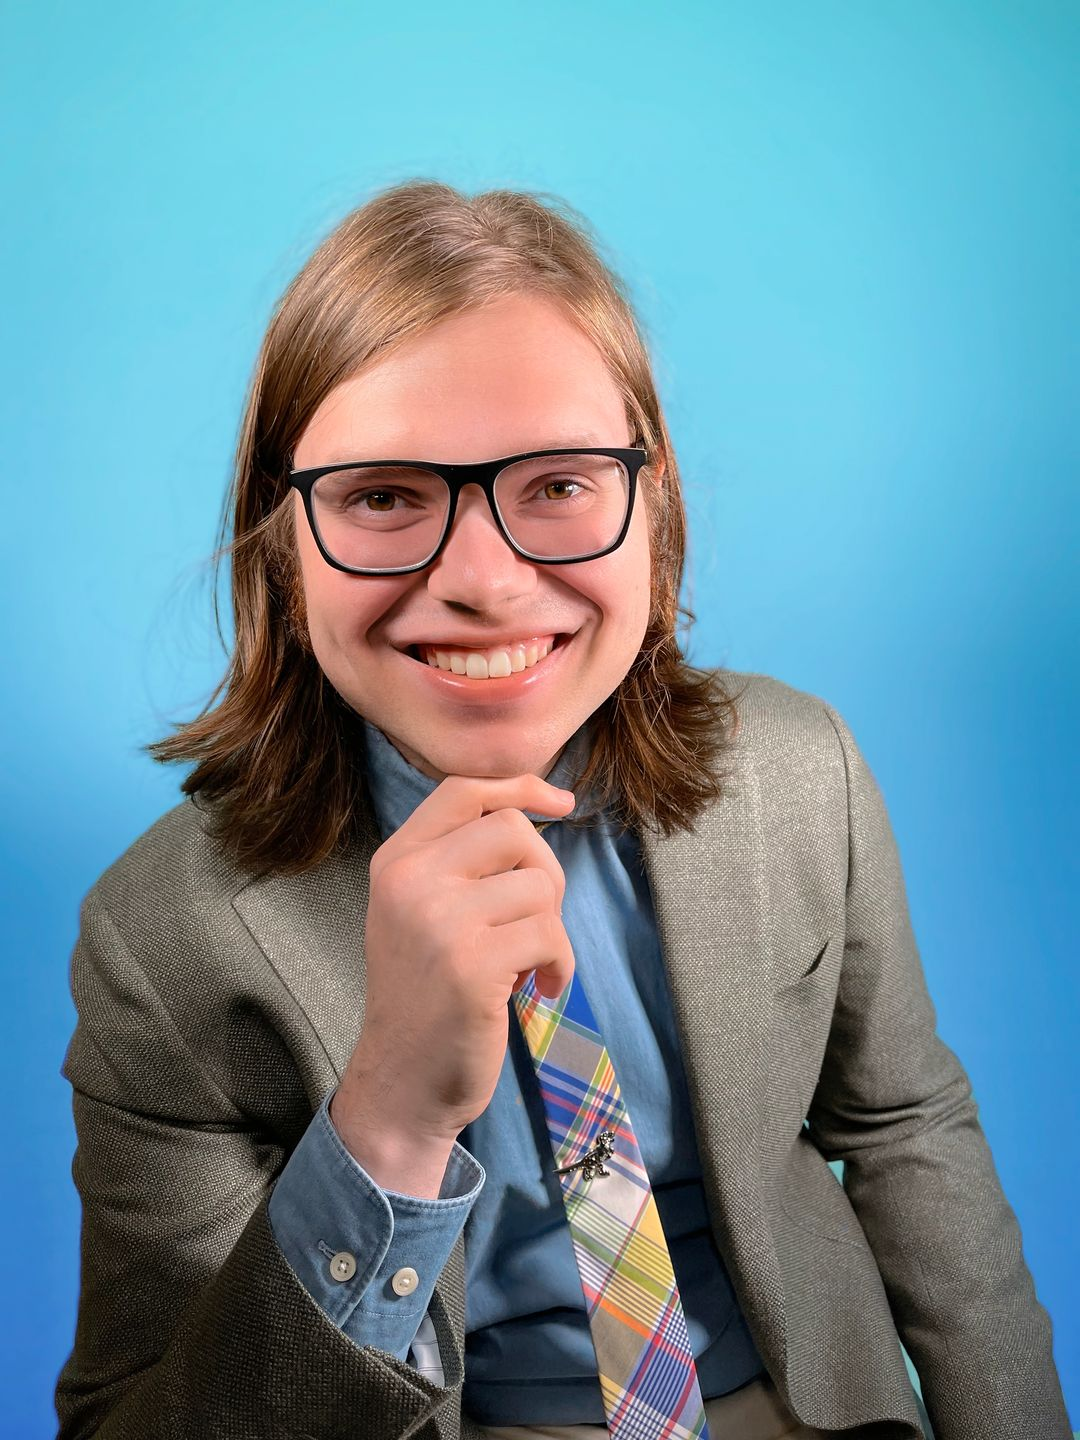
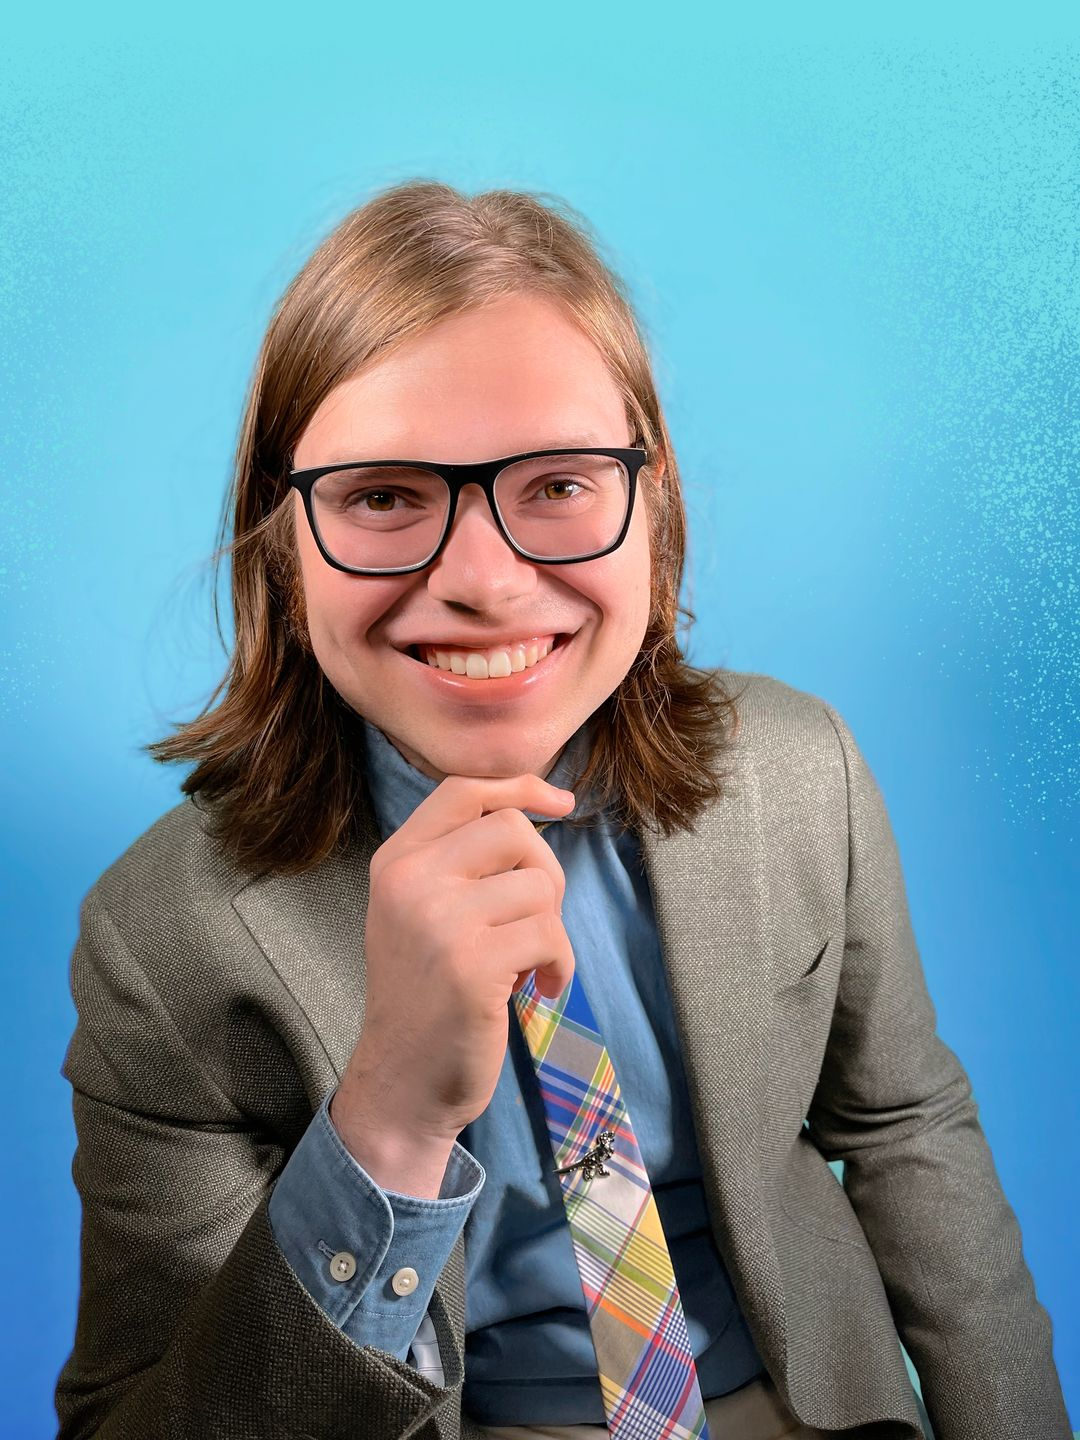
feat: Edited landing image, matching background

Changed region(s): [[0.7944, 0.0, 1.0, 0.5]]

diff --git a/src/components/navigation/NavigationSubmenu.css b/src/components/navigation/NavigationSubmenu.css
@@ -1,5 +1,5 @@
 .nav-submenu {
-  background-color: #76dae9;
+  background-color: #71DDE9;
   display: flex;
   flex-direction: column;
   align-items: center;

diff --git a/src/components/landing/Landing.css b/src/components/landing/Landing.css
@@ -1,5 +1,5 @@
 .landing-container {
-  background-color: #76dae9;
+  background-color: #71DDE9;
   height: 100%;
 }
 
